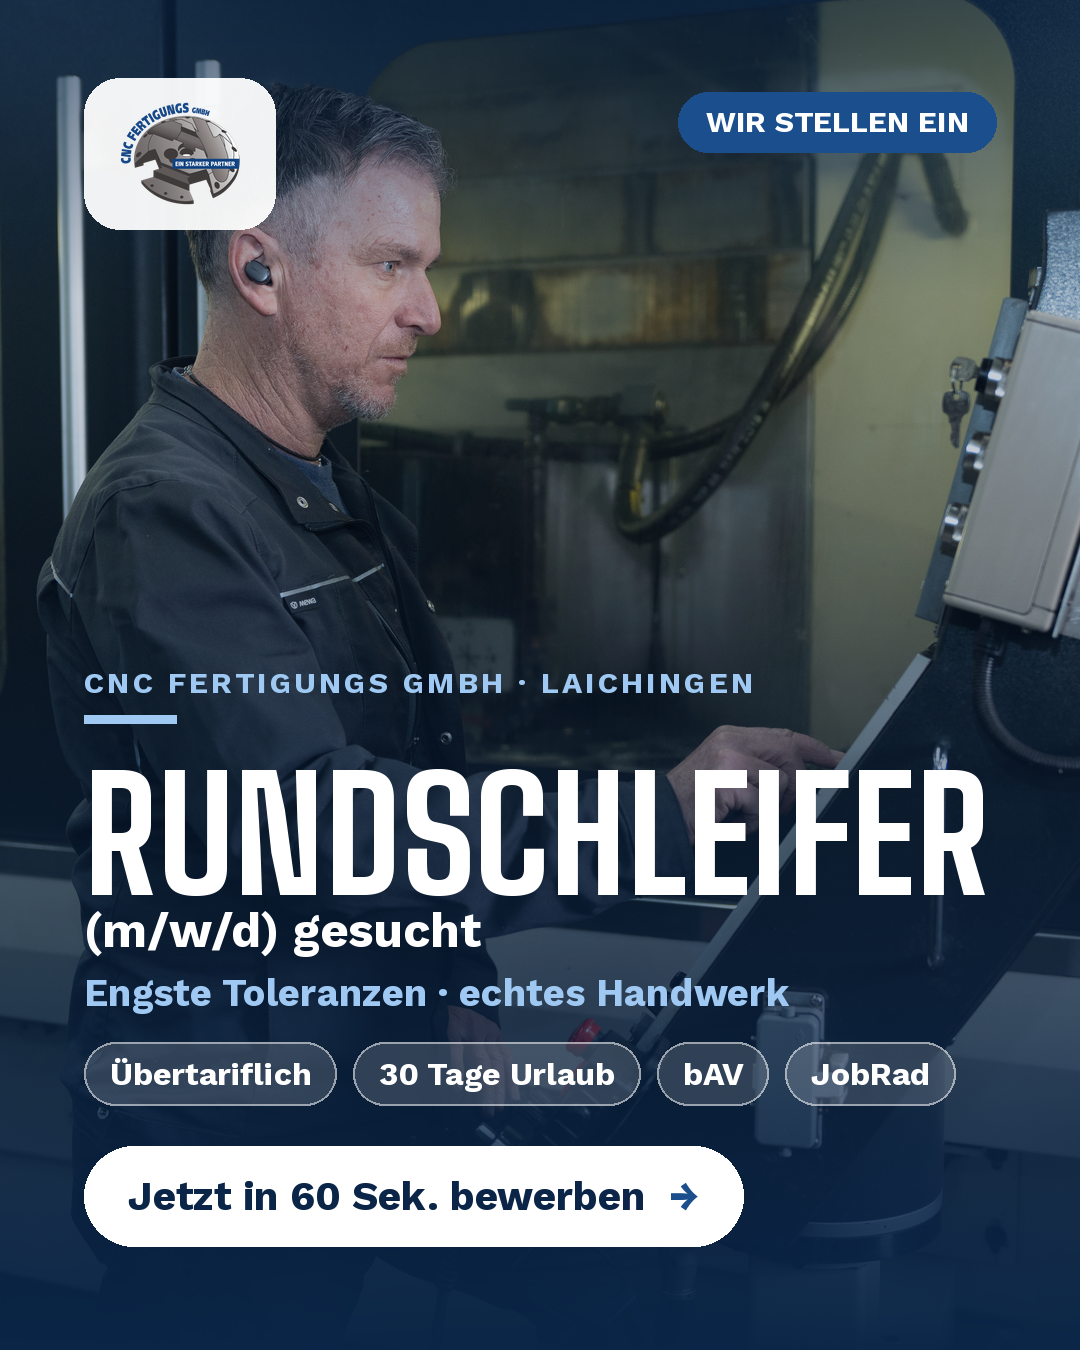
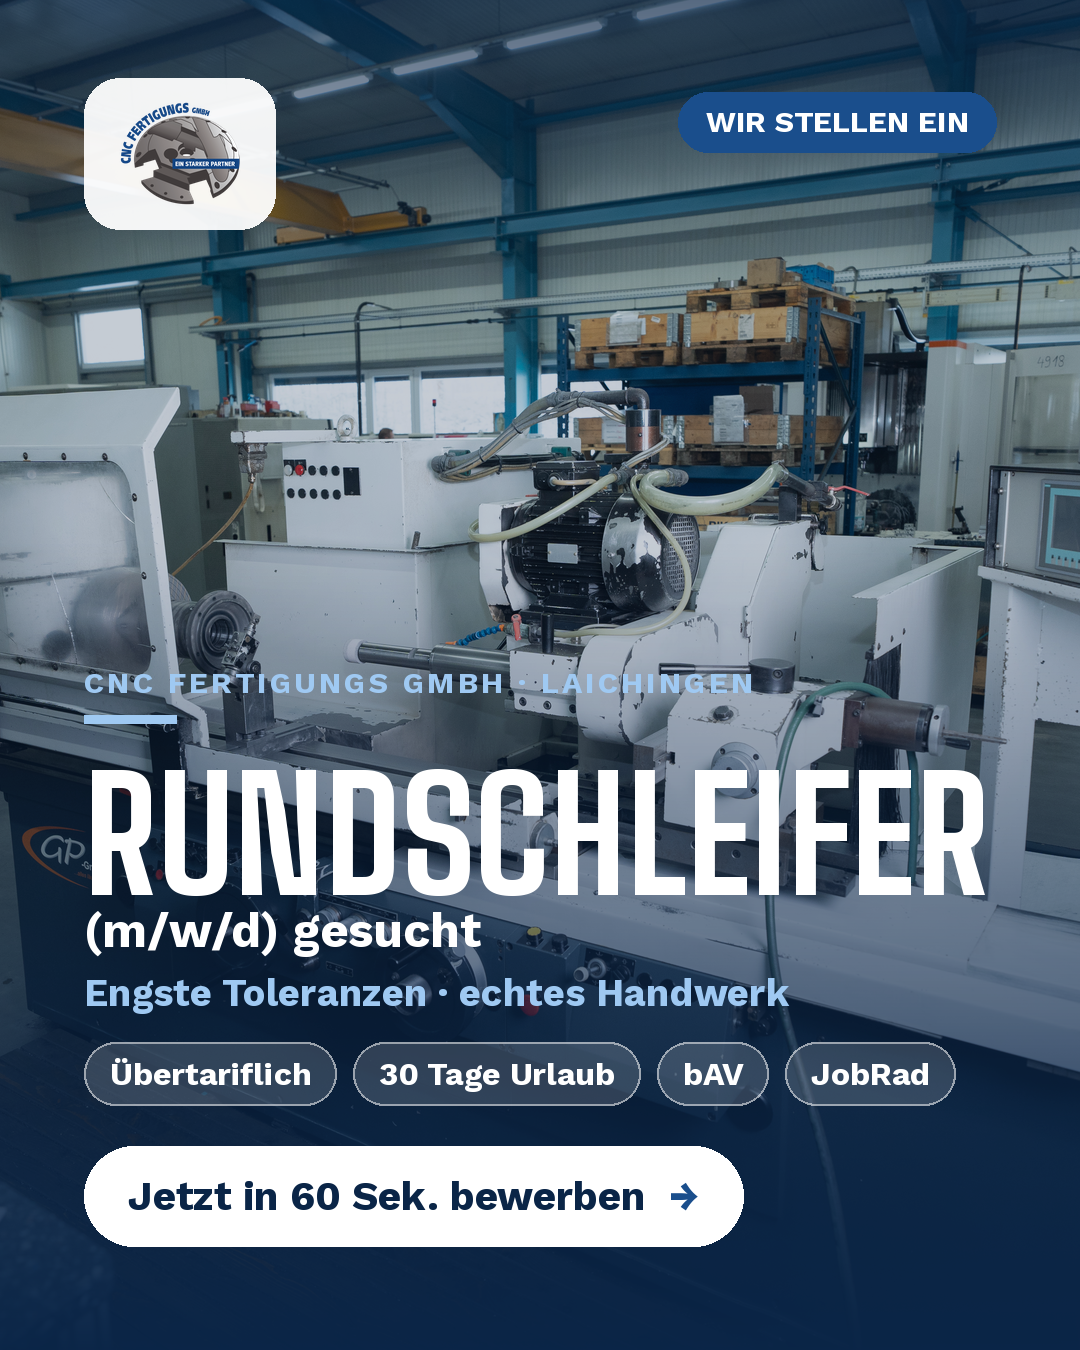
Rundschleifer: passendes Bild (echte Rundschleifmaschine _DSC7119) eingesetzt
- Hero (bilder/rundschleifer.jpg) + Job-Karte (bilder/job-schleifer.jpg) aus _DSC7119
- Rundschleifer-Creatives (Feed 4:5 + Story 9:16) aus _DSC7119 neu erzeugt
- README-Bildquelle aktualisiert
Allgemeiner Hero + CNC-Dreher unverändert.

Claude-Session: https://claude.ai/code/session_01LkrJuFo7q2Ef1LQvF4h3HW

diff --git a/README.md b/README.md
@@ -29,12 +29,12 @@ Das CI ist an die **Firmenlogo-Farbe** angepasst (Royalblau ≈ `#1a4e8c`, entno
 **Aktueller Stand – bereits eingebunden:**
 
 - **Logo:** `md2x-9.png` (im Repo-Root) wird automatisch in der Kopfzeile angezeigt.
-- **Hero-Fotos:** aus den hochgeladenen Originalfotos (`_DSC7321.jpg`, `_DSC7566.jpg`)
-  wurden **web-optimierte Versionen** erzeugt (1920 px, ~180–200 KB statt 17–18 MB) und
+- **Hero-Fotos:** aus den hochgeladenen Originalfotos (`_DSC7321.jpg`, `_DSC7566.jpg`, `_DSC7119.jpg`)
+  wurden **web-optimierte Versionen** erzeugt (1920 px, ~180–310 KB statt 17–20 MB) und
   in `bilder/` abgelegt:
   - `bilder/hero.jpg` – allgemeines Hero-Bild (aus `_DSC7321`, Mitarbeiter an der Maschine)
   - `bilder/cnc-dreher.jpg` – bei `?stelle=cnc-dreher` (aus `_DSC7566`, CLX 450 TC Drehmaschine)
-  - `bilder/rundschleifer.jpg` – bei `?stelle=rundschleifer` (aus `_DSC7321`)
+  - `bilder/rundschleifer.jpg` – bei `?stelle=rundschleifer` (aus `_DSC7119`, Rundschleifmaschine)
 
 Die Original-Uploads bleiben unangetastet im Repo-Root liegen (nur nicht direkt eingebunden,
 da sie mit 17–18 MB die Ladezeit sprengen würden). Neue/andere Fotos einfach als
